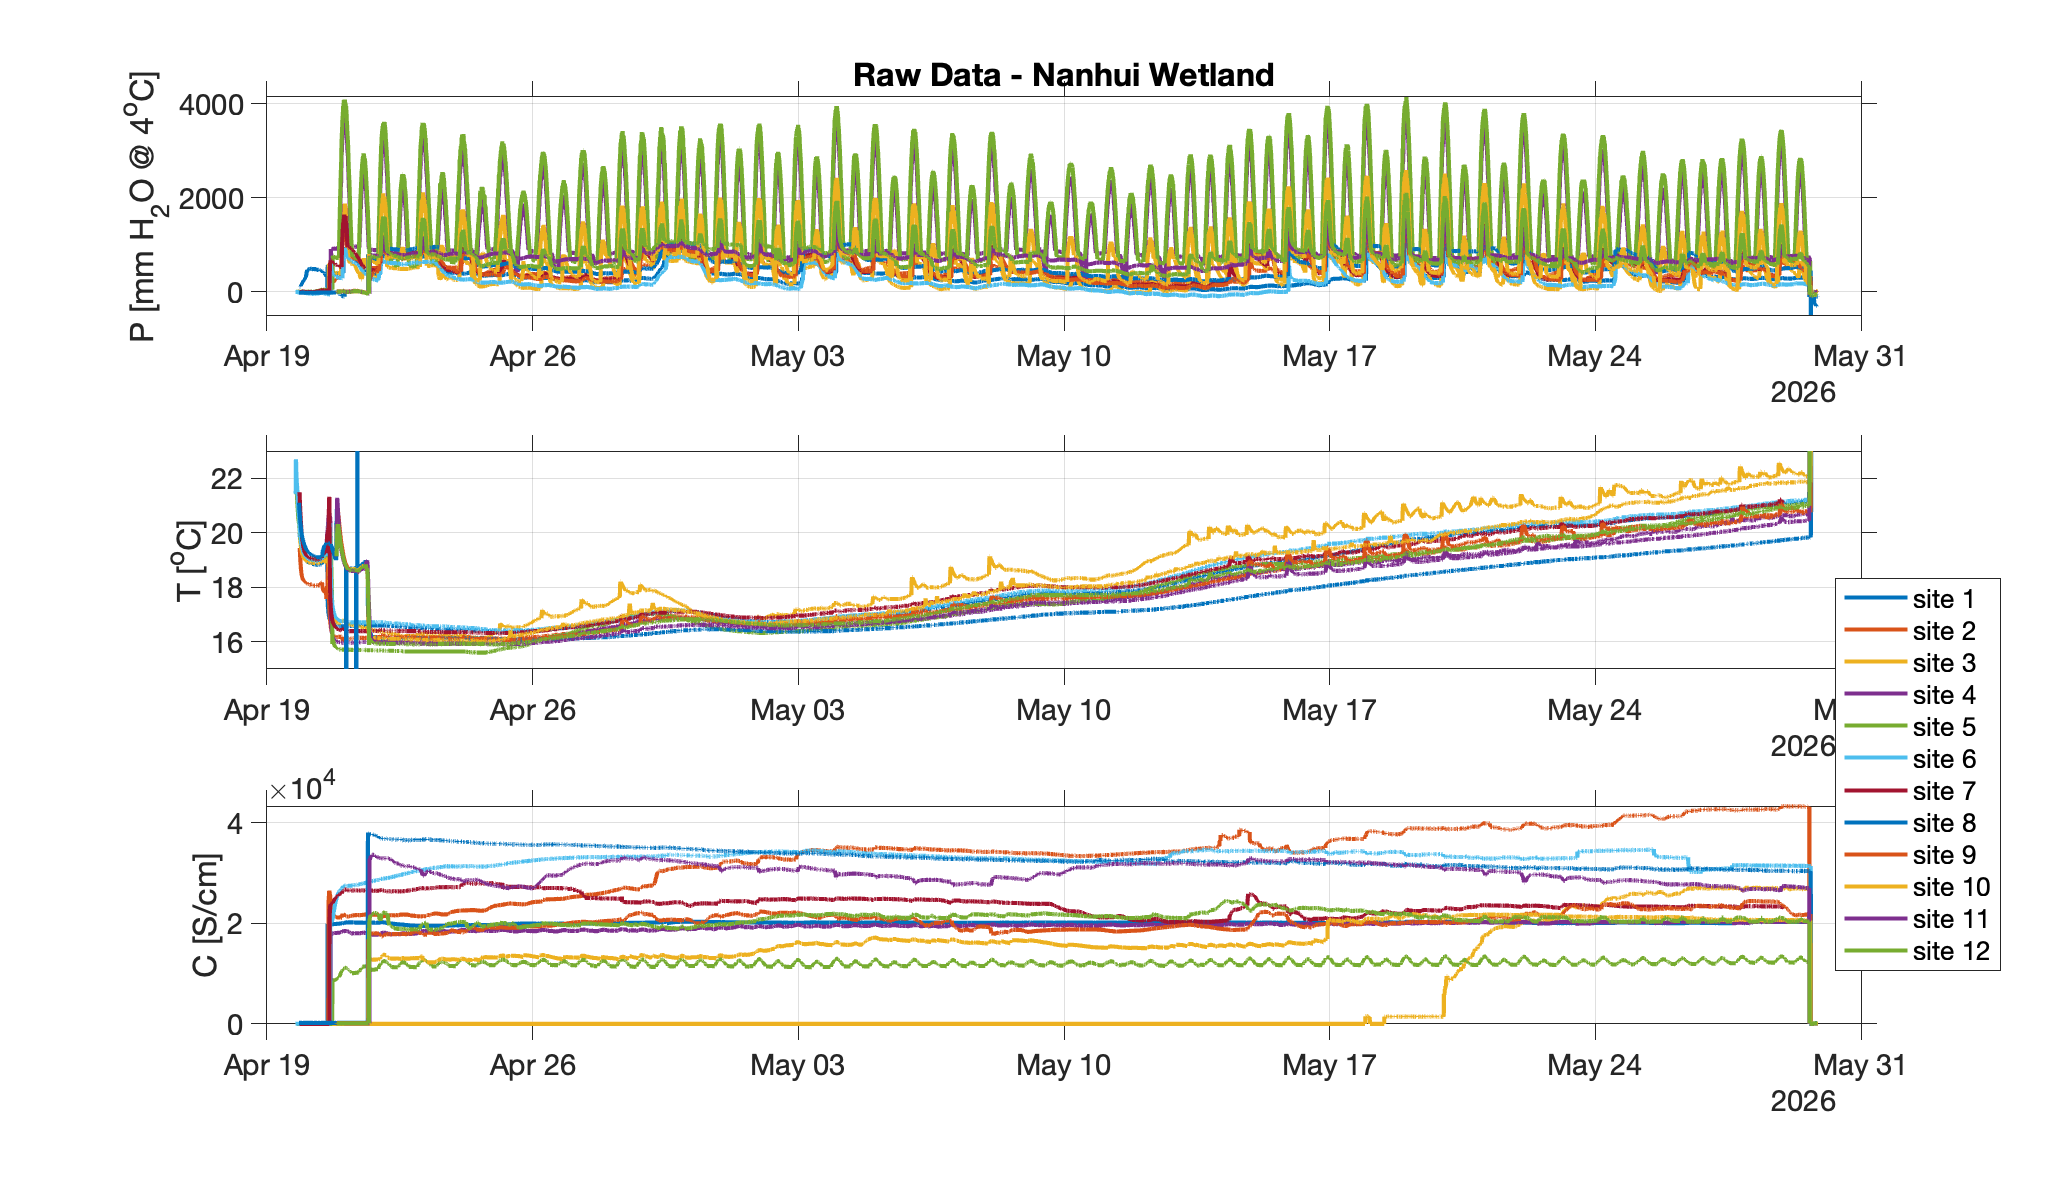
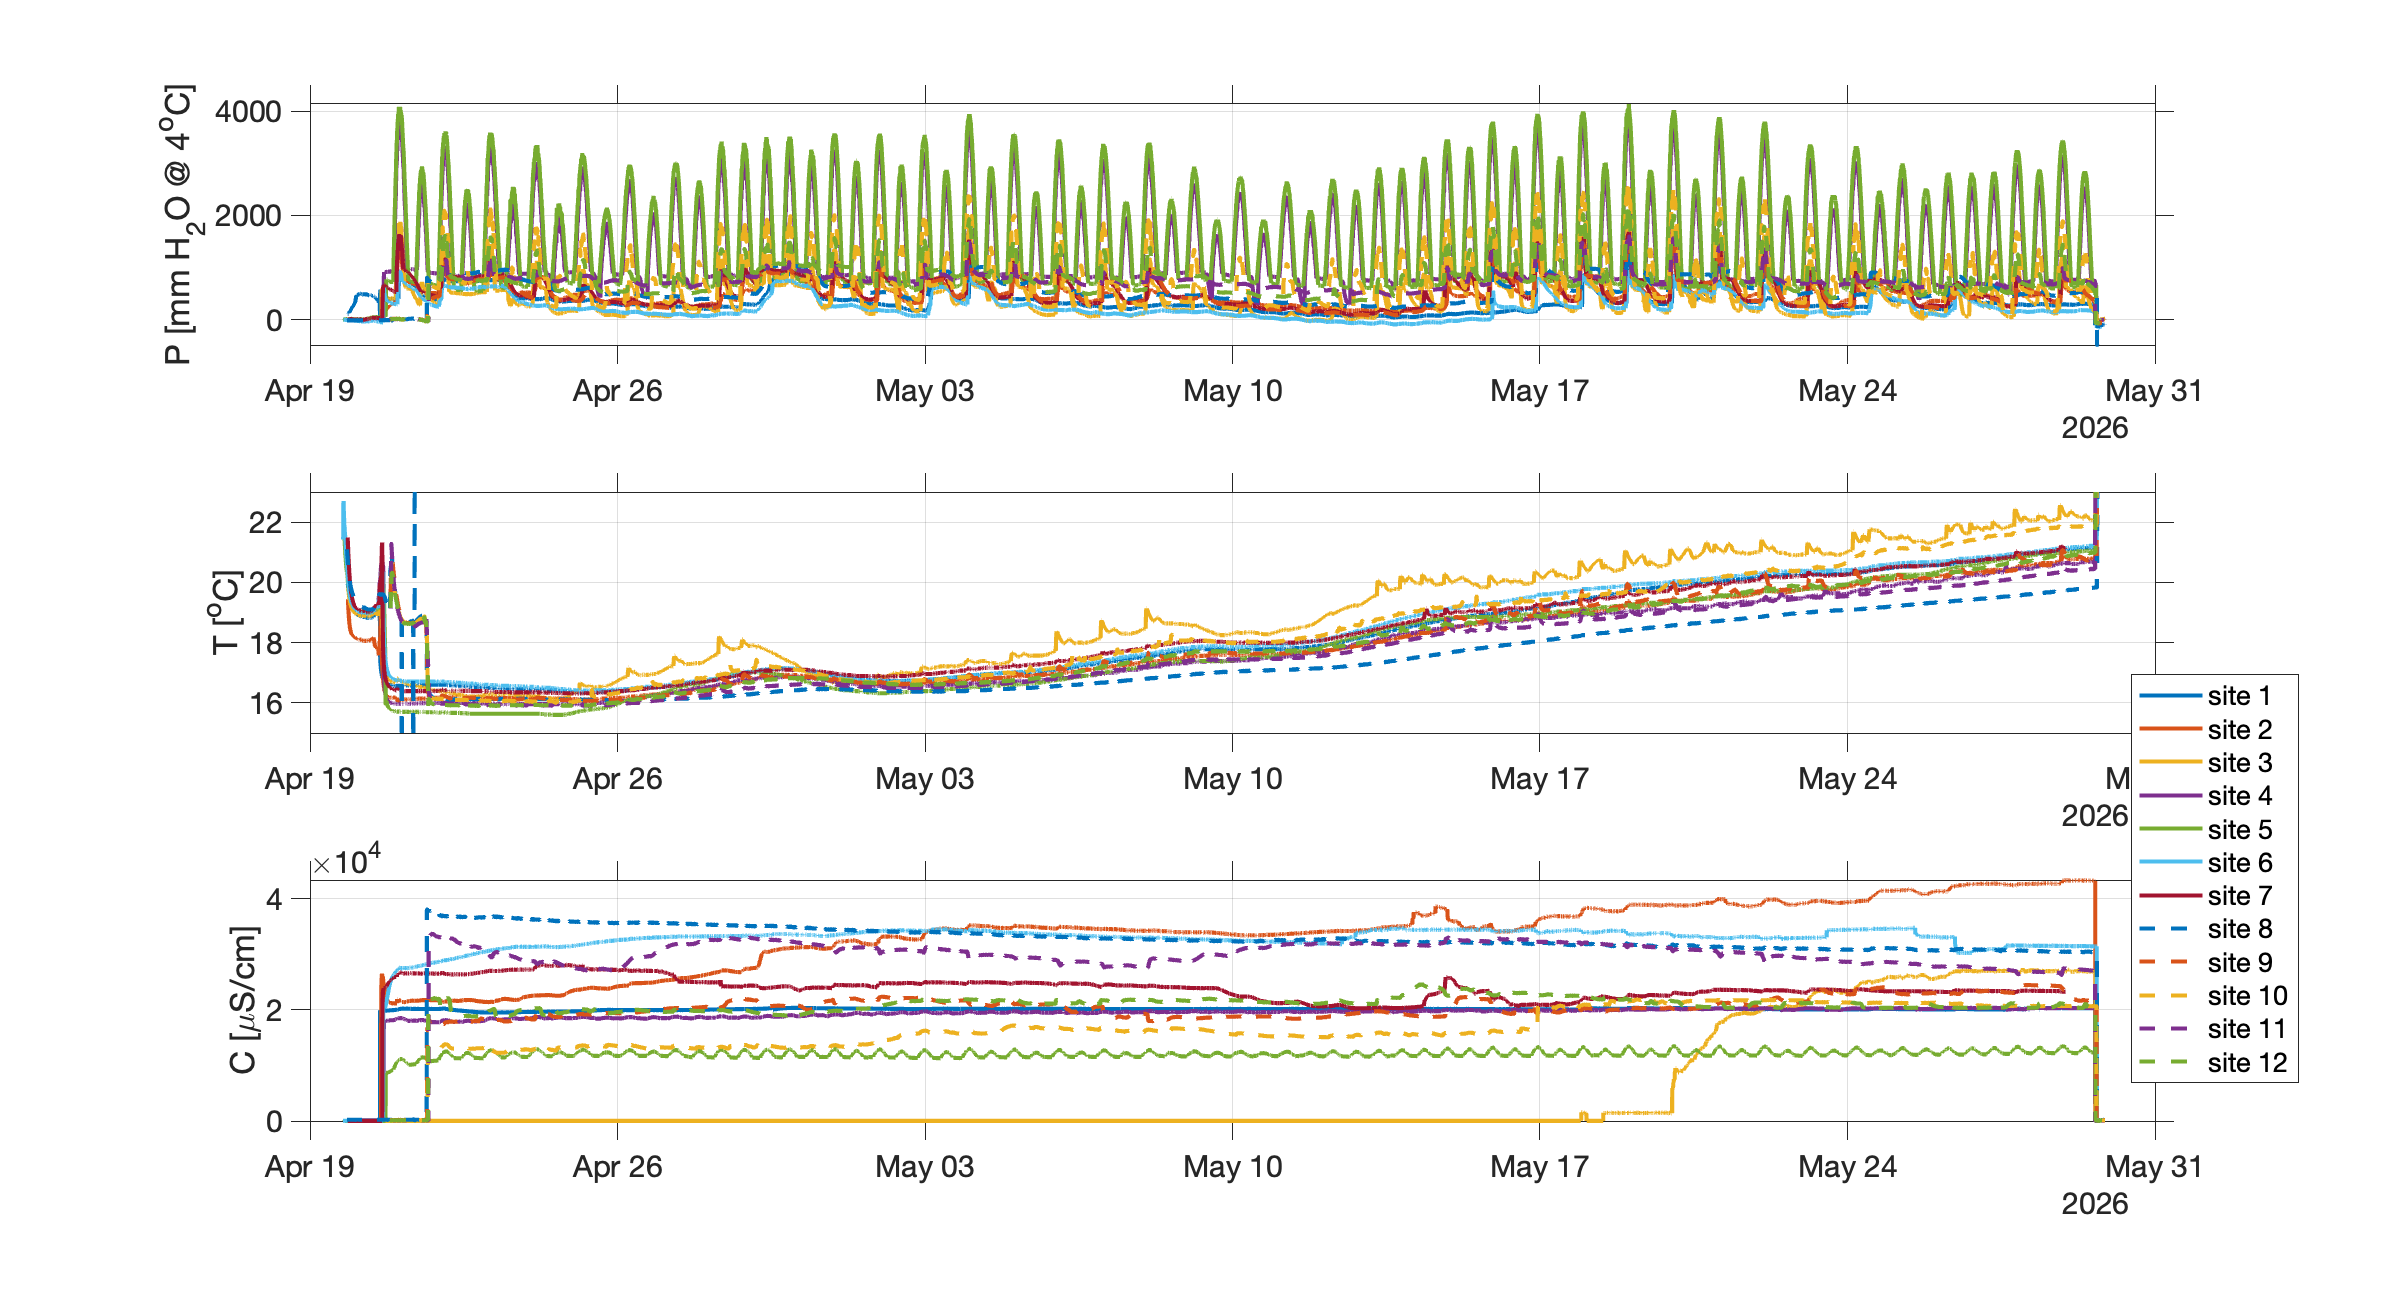
corrected units on conductivity plot

diff --git a/scripts/quick_read_plot_nanhui.m b/scripts/quick_read_plot_nanhui.m
@@ -21,7 +21,7 @@ d = readtable('~/Research/nanhui/Sampling_Data_of_Nanhui_Tidal_Flat/20260419-202
 d = readtable('~/Research/nanhui/Sampling_Data_of_Nanhui_Tidal_Flat/20260419-20260529-1.csv');
 
 ixl = 1;
-for ix = [ 3 7 9 12 ]
+for ix = [ 1:12 ]
     fn = ['~/Research/nanhui/Sampling_Data_of_Nanhui_Tidal_Flat/20260419-20260529-',num2str(ix),'.csv'];
 
     d = readtable(fn);
@@ -36,7 +36,7 @@ for ix = [ 3 7 9 12 ]
     ylabel('T [^oC]')
     ax(3) = subplot(3,1,3);
     plot(d.Time,d.Conductivity__S_cm_), hold all
-    ylabel('C [\mu S/cm]')
+    ylabel('C [\muS/cm]')
 
 legentry{ixl} = ['site ',num2str(ix)]
 ixl = ixl+1; % legend entry without having to start at index ix = 1.
@@ -49,7 +49,10 @@ ylim([15 23])
 
 linkaxes(ax,'x')
 
-% return;
+% saveas(gcf,'../images/raw_data_wells_nanhui.png')
+
+
+ return;
 %%
 clear ax
 close all
